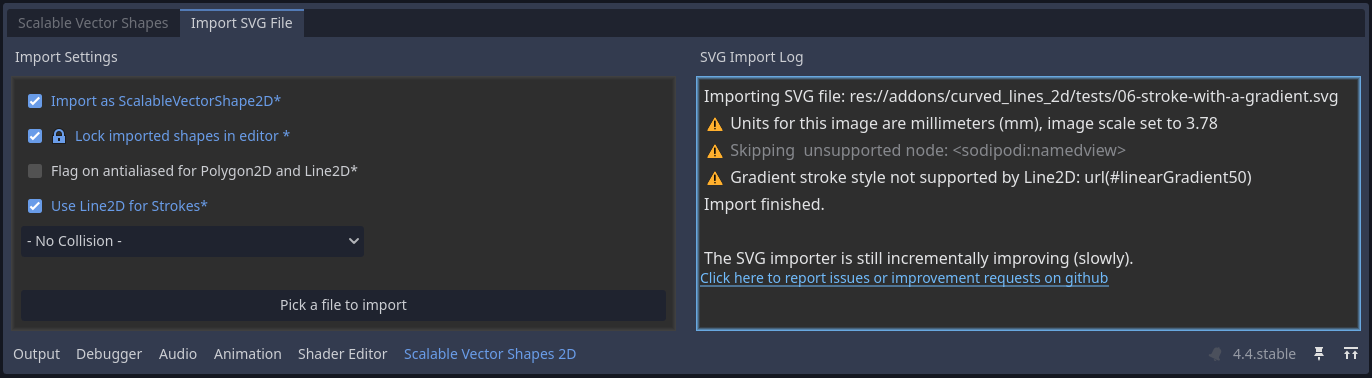
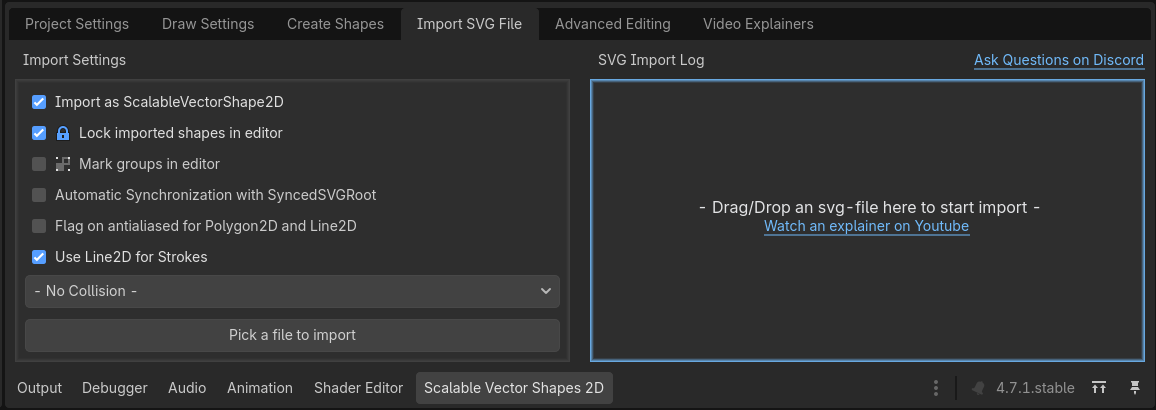
updates readmes documenting SyncedSVGRoot.

diff --git a/README.md b/README.md
@@ -50,6 +50,7 @@ You can find the rest of the explainer videos on this playlist:
 	- [`Line2D` Stroke versus `Polygon2D` Stroke](#line2d-stroke-versus-polygon2d-stroke)
 	- [The import log](#the-import-log)
 	- [Importing SVG as nodes at runtime via gdscript](#importing-svg-as-nodes-at-runtime-via-gdscript)
+	- [Synchronize with external SGV files automatically using `SyncedSVGRoot`](#synchronize-with-external-sgv-files-automatically-using-syncedsvgroot)
 - [The Project Settings Dock](#the-project-settings-dock)
 	- [Editor Settings (how the 2D Viewport should behave):](#editor-settings-how-the-2d-viewport-should-behave)
 	- [Curve Settings](#curve-settings)
@@ -213,8 +214,6 @@ Read more about [manipulating shapes](#manipulating-shapes)
 
 # The Import SVG File Dock
 
-![svg importer dock](./addons/curved_lines_2d/screenshots/svg_importer_dock.png)
-
 ## Watch an explainer on Youtube
 
 [![watch explainer on youtube](./addons/curved_lines_2d/video_thumbnails/importing-svg-files-splash.webp)](https://youtu.be/5PIVoQcm8QE)
@@ -222,10 +221,15 @@ Read more about [manipulating shapes](#manipulating-shapes)
 
 ## Using the Import SVG File Dock
 
+![svg importer dock](./addons/curved_lines_2d/screenshots/svg_importer_dock.png)
+
+
 On the left side of this panel is a form with a couple of options:
 
-- Import as ScalableVectorShape2D: check this Off if you want to import the svg file with only built-in godot nodes, without being able to edit/animate the curves in the editor.
-- Lock imported shapes in editor: this simply flags on the lock so that the `Polygon2D`, `Line2D`, etc are not selected on click, but the owning ScalableVectorShape2D is
+- Import as ScalableVectorShape2D: check this Off if you want to import the svg file with only built-in godot  nodes (`Polygon2D`, `Line2D`, `CollisionPolygon2D`), without being able to edit/animate the curves in the editor.
+- Lock imported shapes in editor: this simply flags on the lock so that the `Polygon2D`, `Line2D`, etc. are not selected on click
+- Mark groups in editor: Mark all the Node2D that come from SVG `<g>` tags a group in Godot as well. Do the same for `ScalableVectorShape2D`.
+- Automatic Synchronization with `SyncedSVGRoot`: surround the imported SVG nodes with a helper `@tool` node [`SyncedSVGRoot`](#synchronize-with-external-sgv-files-automatically-using-syncedsvgroot), which tracks changes to the source svg file and automatically triggers a reimport.
 - Flag on antialiased on Polygon2D and Line2D: flags on the `antialiased` property of either
 - Use Line2D for Strokes: when flagged Off a `Polygon2D` is used for strokes in stead of a Line2D
 - Pick a `CollisionObject2D` type to also generate collision polygons when importing the svg file
@@ -253,6 +257,18 @@ As of release 2.33 you can import SVG files as nodes in your gdscript runtime.
 Please refer to the script in this example to accomplish that:
 
 [`res://addons/curved_lines_2d/examples/import_svg_at_runtime/`](./addons/curved_lines_2d/examples/import_svg_at_runtime/)
+
+## Synchronize with external SGV files automatically using `SyncedSVGRoot`
+
+As of release `2.34` the `SyncedSVGRoot` tool node helps keep your imported version of the SVG file synchronized with an external file by reimporting all the nodes. 
+
+This works in a similar way as with imported blender models, with a couple of differences (like all the nodes being editable)
+
+Automatic sync only works while the scene with `SyncedSVGRoot` is open _and_ the `SyncedSVGRoot` is not part of an external scene. In that case file changes are still detected but pushed as a warning. You can then open the scene with the `SyncedSVGRoot` in it and press the "Reimport" button in the inspector:
+
+![SyncedSVGRoot in the inspector](./addons/curved_lines_2d/screenshots/synced-svg-root-inspector.png)
+
+A copy of all the settings chosen in the original import is also kept track of in this node and changing any of those settings will also trigger a reimport.
 
 # The Project Settings Dock
 

diff --git a/addons/curved_lines_2d/README.md b/addons/curved_lines_2d/README.md
@@ -50,6 +50,7 @@ You can find the rest of the explainer videos on this playlist:
   - [`Line2D` Stroke versus `Polygon2D` Stroke](#line2d-stroke-versus-polygon2d-stroke)
   - [The import log](#the-import-log)
   - [Importing SVG as nodes at runtime via gdscript](#importing-svg-as-nodes-at-runtime-via-gdscript)
+  - [Synchronize with external SGV files automatically using `SyncedSVGRoot`](#synchronize-with-external-sgv-files-automatically-using-syncedsvgroot)
 - [The Project Settings Dock](#the-project-settings-dock)
   - [Editor Settings (how the 2D Viewport should behave):](#editor-settings-how-the-2d-viewport-should-behave)
   - [Curve Settings](#curve-settings)
@@ -213,8 +214,6 @@ Read more about [manipulating shapes](#manipulating-shapes)
 
 # The Import SVG File Dock
 
-![svg importer dock](./screenshots/svg_importer_dock.png)
-
 ## Watch an explainer on Youtube
 
 [![watch explainer on youtube](./video_thumbnails/importing-svg-files-splash.webp)](https://youtu.be/5PIVoQcm8QE)
@@ -222,10 +221,15 @@ Read more about [manipulating shapes](#manipulating-shapes)
 
 ## Using the Import SVG File Dock
 
+![svg importer dock](./screenshots/svg_importer_dock.png)
+
+
 On the left side of this panel is a form with a couple of options:
 
-- Import as ScalableVectorShape2D: check this Off if you want to import the svg file with only built-in godot nodes, without being able to edit/animate the curves in the editor.
-- Lock imported shapes in editor: this simply flags on the lock so that the `Polygon2D`, `Line2D`, etc are not selected on click, but the owning ScalableVectorShape2D is
+- Import as ScalableVectorShape2D: check this Off if you want to import the svg file with only built-in godot  nodes (`Polygon2D`, `Line2D`, `CollisionPolygon2D`), without being able to edit/animate the curves in the editor.
+- Lock imported shapes in editor: this simply flags on the lock so that the `Polygon2D`, `Line2D`, etc. are not selected on click
+- Mark groups in editor: Mark all the Node2D that come from SVG `<g>` tags a group in Godot as well. Do the same for `ScalableVectorShape2D`.
+- Automatic Synchronization with `SyncedSVGRoot`: surround the imported SVG nodes with a helper `@tool` node [`SyncedSVGRoot`](#synchronize-with-external-sgv-files-automatically-using-syncedsvgroot), which tracks changes to the source svg file and automatically triggers a reimport.
 - Flag on antialiased on Polygon2D and Line2D: flags on the `antialiased` property of either
 - Use Line2D for Strokes: when flagged Off a `Polygon2D` is used for strokes in stead of a Line2D
 - Pick a `CollisionObject2D` type to also generate collision polygons when importing the svg file
@@ -253,6 +257,18 @@ As of release 2.33 you can import SVG files as nodes in your gdscript runtime.
 Please refer to the script in this example to accomplish that:
 
 [`res://addons/curved_lines_2d/examples/import_svg_at_runtime/`](./examples/import_svg_at_runtime/)
+
+## Synchronize with external SGV files automatically using `SyncedSVGRoot`
+
+As of release `2.34` the `SyncedSVGRoot` tool node helps keep your imported version of the SVG file synchronized with an external file by reimporting all the nodes. 
+
+This works in a similar way as with imported blender models, with a couple of differences (like all the nodes being editable)
+
+Automatic sync only works while the scene with `SyncedSVGRoot` is open _and_ the `SyncedSVGRoot` is not part of an external scene. In that case file changes are still detected but pushed as a warning. You can then open the scene with the `SyncedSVGRoot` in it and press the "Reimport" button in the inspector:
+
+![SyncedSVGRoot in the inspector](./screenshots/synced-svg-root-inspector.png)
+
+A copy of all the settings chosen in the original import is also kept track of in this node and changing any of those settings will also trigger a reimport.
 
 # The Project Settings Dock
 
